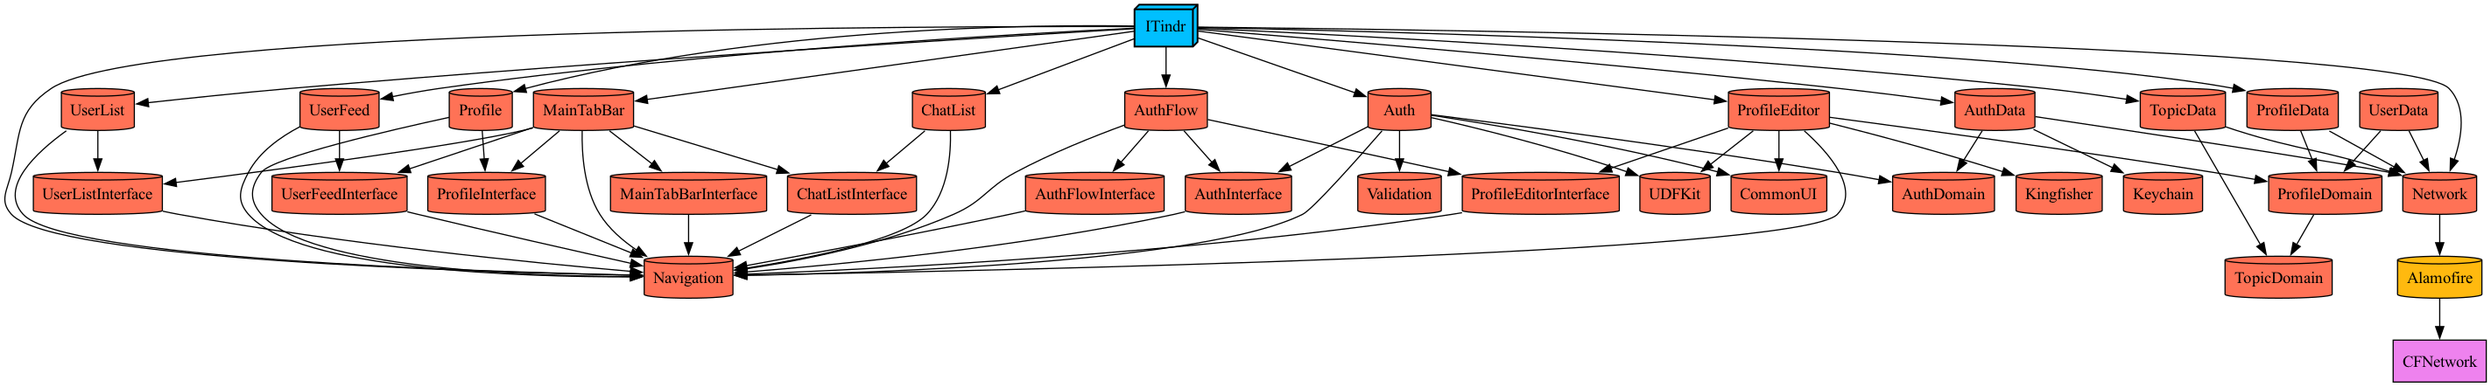
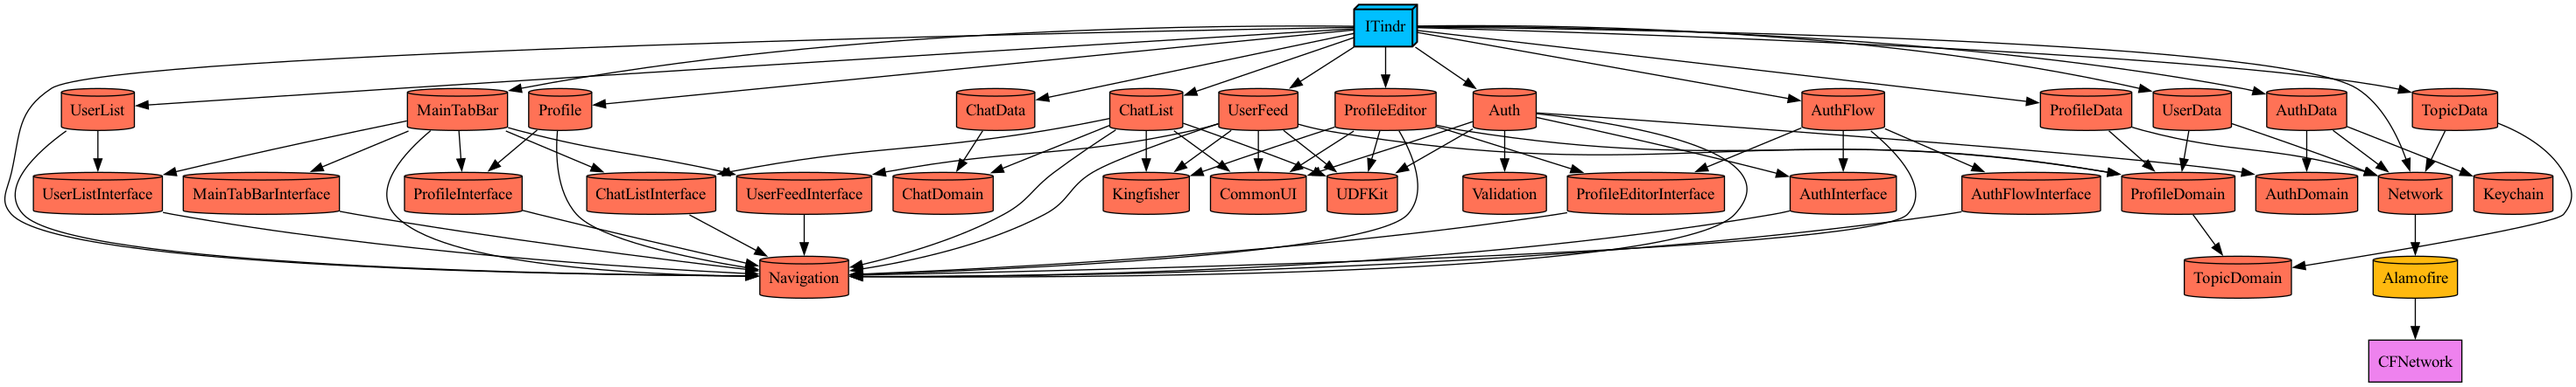
Bug fixes

diff --git a/Modules/Features/ChatList/Sources/Presentation/Screen/ChatListViewController.swift b/Modules/Features/ChatList/Sources/Presentation/Screen/ChatListViewController.swift
@@ -12,7 +12,7 @@ import Combine
 
 final class ChatListViewController: UIViewController, LoadableView {
 
-    @StateObject private var store: ChatListStore
+    @ObservedObject private var store: ChatListStore
     private let dataSource: ChatListDataSource
     private var subscriptions = Set<AnyCancellable>()
 
@@ -20,7 +20,7 @@ final class ChatListViewController: UIViewController, LoadableView {
     private(set) var loadingView = UIActivityIndicatorView()
 
     init(store: ChatListStore) {
-        _store = StateObject(wrappedValue: store)
+        self.store = store
         dataSource = ChatListDataSource(store: store)
         super.init(nibName: nil, bundle: nil)
     }
@@ -85,11 +85,12 @@ private extension ChatListViewController {
 
     func render() {
         switch store.state {
-        case .failed: 
-            break
+        case .failed:
+            isLoading(false)
         case .idle, .loading:
             isLoading(true)
         case .loaded:
+            isLoading(false)
             chatTableView.reloadData()
         }
     }

diff --git a/App/Sources/AppFactory.swift b/App/Sources/AppFactory.swift
@@ -17,8 +17,9 @@ import AuthData
 import UserData
 import ChatData
 import MainTabBar
-import ProfileDomain
+import ChatDomain
 import AuthDomain
+import ProfileDomain
 import Network
 import Keychain
 import Navigation
@@ -29,7 +30,10 @@ final class AppFactory {
     private lazy var keychainStorage = KeychainStorage()
     private lazy var networkService = NetworkService(authInterceptor: authInterceptor)
 
-//    private lazy var chatRepository: ChatR
+    private lazy var chatRepository: ChatRepositoryProtocol = {
+        let dependencies = ChatData.ModuleDependencies(networkService: networkService)
+        return ChatRepositoryAssembly(dependencies: dependencies).assemble()
+    }()
 
     private lazy var userRepository: UserRepositoryProtocol = {
         let dependencies = UserData.ModuleDependencies(networkService: networkService)

diff --git a/Modules/Features/UserList/Sources/UserListCoordinator.swift b/Modules/Features/UserList/Sources/UserListCoordinator.swift
@@ -13,7 +13,7 @@ final class UserListCoordinator: BaseCoordinator, UserListCoordinatorProtocol {
 
     override func start() {
         let viewController = UIViewController()
-        viewController.view.backgroundColor = .orange
+        viewController.view.backgroundColor = .systemIndigo
 
         addPopHandler(for: viewController)
         navigationController.pushViewController(viewController, animated: true)

diff --git a/Modules/Features/Profile/Sources/ProfileCoordinator.swift b/Modules/Features/Profile/Sources/ProfileCoordinator.swift
@@ -13,7 +13,7 @@ final class ProfileCoordinator: BaseCoordinator, ProfileCoordinatorProtocol {
 
     override func start() {
         let viewController = UIViewController()
-        viewController.view.backgroundColor = .systemBlue
+        viewController.view.backgroundColor = .cyan
 
         addPopHandler(for: viewController)
         navigationController.pushViewController(viewController, animated: true)

diff --git a/Modules/Shared/Domain/ChatDomain/Sources/Entities/ChatDetails.swift b/Modules/Shared/Domain/ChatDomain/Sources/Entities/ChatDetails.swift
@@ -7,9 +7,9 @@
 
 public struct ChatDetails: Equatable {
     public let chat: Chat
-    public let lastMessage: Message
+    public let lastMessage: Message?
 
-    public init(chat: Chat, lastMessage: Message) {
+    public init(chat: Chat, lastMessage: Message?) {
         self.chat = chat
         self.lastMessage = lastMessage
     }

diff --git a/Modules/Features/ChatList/Sources/Presentation/Screen/Store/ChatListReducer.swift b/Modules/Features/ChatList/Sources/Presentation/Screen/Store/ChatListReducer.swift
@@ -30,7 +30,7 @@ struct ChatListReducer: Reducer {
             id: chatDetails.chat.id,
             title: chatDetails.chat.title,
             avatarUrl: chatDetails.chat.avatar,
-            lastMessage: chatDetails.lastMessage.text
+            lastMessage: chatDetails.lastMessage?.text
         )
     }
 }

diff --git a/Modules/Shared/Data/ChatData/Sources/Mapping/Network/ChatDetailsDTO+Mapping.swift b/Modules/Shared/Data/ChatData/Sources/Mapping/Network/ChatDetailsDTO+Mapping.swift
@@ -17,6 +17,6 @@ extension [ChatDetailsDTO] {
 extension ChatDetailsDTO {
 
     func toDomain() -> ChatDetails {
-        ChatDetails(chat: chat.toDomain(), lastMessage: lastMessage.toDomain())
+        ChatDetails(chat: chat.toDomain(), lastMessage: lastMessage?.toDomain())
     }
 }

diff --git a/Modules/Shared/Data/ChatData/Sources/Models/Network/ChatDetailsDTO.swift b/Modules/Shared/Data/ChatData/Sources/Models/Network/ChatDetailsDTO.swift
@@ -7,5 +7,5 @@
 
 struct ChatDetailsDTO: Decodable {
     let chat: ChatDTO
-    let lastMessage: MessageDTO
+    let lastMessage: MessageDTO?
 }
